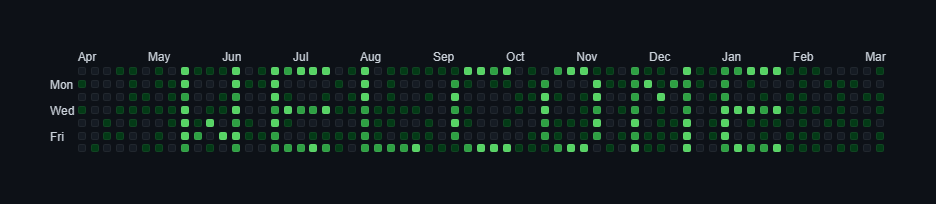
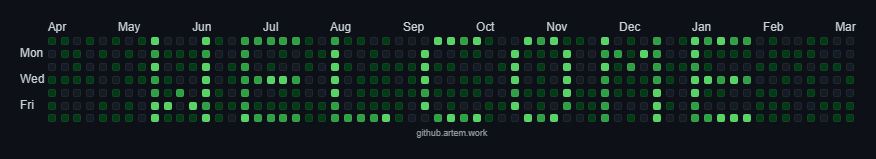
refactor the code: - fix dependencies - add more comments
update readme and welcome image

diff --git a/generator.js b/generator.js
@@ -17,75 +17,92 @@ export const generateContributionGrid = (options) => {
         maxInputLength,
         minInputLength        
     } = Object.assign({
-        letters: charMatrixMap,
-        gridContainer: document.getElementById('grid-container'),
-        contributionsGrid: document.getElementById('contribution-grid'),
-        message: document.getElementById('message-input').value.toUpperCase(),
-        speed: document.getElementById('speed-input').value,
-        paddingX: document.getElementById('padding-x-input').value,
-        paddingY: document.getElementById('padding-y-input').value,
-        creditsValue: document.getElementById('credits-input').value,
-        creditsContainer: document.getElementById('credits'),
-        numRows: 7,
-        squareGap: 2,
-        animationDuration: 0.5,
-        maxInputLength: 15,
-        minInputLength: 10
+        letters: charMatrixMap, // Map of characters to their grid representations
+        gridContainer: document.getElementById('grid-container'), // Main container for the grid
+        contributionsGrid: document.getElementById('contribution-grid'), // Grid element where contributions are displayed
+        creditsContainer: document.getElementById('credits'), // Container for displaying credits
+        message: 'HI THERE', // User input message
+        speed: 3, // Animation speed 
+        paddingX: 20, // Horizontal padding for the grid
+        paddingY: 20, // Vertical padding for the grid
+        creditsValue: 'github.artem.work', // Credits text input        
+        numRows: 7, // Number of rows in the grid, it's 7 as the days of the week
+        squareGap: 2, // Gap in squares between chars in the grid
+        animationDuration: 0.5, // Duration of the animation for each square in seconds
+        maxInputLength: 15, // Maximum length of the input message, it's limited because of the grid size (12 months)
+        minInputLength: 10 // Minimum length of the input message, it's limited because of the grid size (12 months)
     }, options);
 
-    const speedFactor = Math.max(0, Math.min(10, speed)) / 1000; // Normalize speed    
+    if (!gridContainer) {
+        throw new Error('Argument error: gridContainer is not defined.');
+    }
+    if (!contributionsGrid) {
+        throw new Error('Argument error: contributionsGrid is not defined.');
+    }
+    if (!creditsContainer)  {
+        throw new Error('Argument error: creditsContainer is not defined.');
+    }
+
+    const speedFactor = Math.max(0, Math.min(10, speed)) / 1000; // Normalize speed to a factor between 0 and 0.01
     
     creditsContainer.innerHTML = creditsValue; // Update credits text 
     creditsContainer.style.display = creditsValue ? 'block' : 'none'; // Show or hide credits based on input
 
+    // Set grid container padding based on user input
     gridContainer.style.paddingLeft = `${paddingX}px`;
     gridContainer.style.paddingRight = `${paddingX}px`;
     gridContainer.style.paddingTop = `${paddingY}px`;
     gridContainer.style.paddingBottom = `${paddingY}px`;
 
     let phrase = '';
-    for (const char of message) {
-        if (letters[char]) {
+    for (const char of message.toUpperCase()) { // Convert message to uppercase and iterate through each character
+        if (letters[char]) { // Only include characters that exist in the character map
             phrase += char;
         }
         if (phrase.length >= maxInputLength) {
             break; // Limit to max input length
         }
     }
+    // if the phrase is shorter than the minimum length,
+    // add spaces to the beginning and end of the phrase
+    // to make it look centered in the grid
     if (phrase.length < minInputLength) {
         const spacesToAdd = Math.max(0, minInputLength - phrase.length);
         const padding = ' '.repeat(Math.ceil(spacesToAdd / 2));
-        phrase = padding + phrase + padding;
+        phrase = padding + phrase + padding; // Add padding to meet minimum length
     }
 
     contributionsGrid.innerHTML = ''; // Clear previous grid
     let totalColumns = 0;
+    // calculate the total number of columns needed for the grid
     for (const char of phrase) {
-        totalColumns += letters[char][0].length + squareGap; // +squareGap for spacing      
+        totalColumns += letters[char][0].length + squareGap; // Add character width and spacing      
     }
     totalColumns = Math.max(0, totalColumns - squareGap); // Remove trailing space
 
-    contributionsGrid.style.gridTemplateRows = `repeat(${numRows}, 0.625rem)`;
-    contributionsGrid.style.gridTemplateColumns = `repeat(${totalColumns}, 0.625rem)`;
+    // Set grid styles based on calculated values
+    contributionsGrid.style.gridTemplateRows = `repeat(${numRows}, 0.625rem)`; // Set grid row template
+    contributionsGrid.style.gridTemplateColumns = `repeat(${totalColumns}, 0.625rem)`; // Set grid column template
 
     let animationDelay = 0;
+    // draw the chars line by line
     for (let row = 0; row < numRows; row++) {
         let letterCol = 0;
         let currentLetter = 0;
         for (let col = 0; col < totalColumns; col++) {
-            const letterTemplate = letters[phrase[currentLetter]];
+            const letterTemplate = letters[phrase[currentLetter]]; // Get the grid representation of the current letter
 
-            const square = document.createElement('div');
+            const square = document.createElement('div'); // Create a square element
             square.classList.add('square');
-            square.style.animationDuration = `${speedFactor == 0 ? 0 : animationDuration}s`;
-            square.style.animationDelay = `${animationDelay}s`;
+            square.style.animationDuration = `${speedFactor == 0 ? 0 : animationDuration}s`; // Set animation duration
+            square.style.animationDelay = `${animationDelay}s`; // Set animation delay
             animationDelay += speedFactor; // Increment delay for staggered effect
 
             // when the letter line is done,
             // add spacing and move to the next letter
             if (letterCol >= letterTemplate[0].length) {
-                square.classList.add(`level-${Math.floor(Math.random() * 2)}`);
-                contributionsGrid.appendChild(square);
+                square.classList.add(`level-${Math.floor(Math.random() * 2)}`); // Assign random level for spacing
+                contributionsGrid.appendChild(square); // Add square to the grid
                 if (letterCol >= letterTemplate[0].length + squareGap - 1) {
                     letterCol = 0;
                     currentLetter++;
@@ -93,34 +110,34 @@ export const generateContributionGrid = (options) => {
                     letterCol++;
                 }
             } else {
-                if (letterTemplate[row][letterCol] === 1) {
-                    square.classList.add(`level-${3 + Math.floor(Math.random() * 2)}`);
+                if (letterTemplate[row][letterCol] === 1) { // Check if the square is part of the letter in the map
+                    square.classList.add(`level-${3 + Math.floor(Math.random() * 2)}`); // Assign higher level for letter squares
                 } else {
-                    square.classList.add(`level-${Math.floor(Math.random() * 2)}`);
+                    square.classList.add(`level-${Math.floor(Math.random() * 2)}`); // Assign random level for non-letter squares
                 }
-                contributionsGrid.appendChild(square);
+                contributionsGrid.appendChild(square); // Add square to the grid
                 letterCol++;
             }
         }
 
-        currentLetter = 0;
-        letterCol = 0;
+        currentLetter = 0; // Reset current letter index for the next row
+        letterCol = 0; // Reset column index for the next row
     }
 
-    generateLabels();
+    generateLabels(); // Generate labels for the grid
 }
 
 const generateLabels = () => {
-    const dayLabels = ['Mon', 'Wed', 'Fri'];
-    const monthLabels = ['Jan', 'Feb', 'Mar', 'Apr', 'May', 'Jun', 'Jul', 'Aug', 'Sep', 'Oct', 'Nov', 'Dec'];
-    const currentMonth = new Date().getMonth();
+    const dayLabels = ['Mon', 'Wed', 'Fri']; // Labels for days
+    const monthLabels = ['Jan', 'Feb', 'Mar', 'Apr', 'May', 'Jun', 'Jul', 'Aug', 'Sep', 'Oct', 'Nov', 'Dec']; // Labels for months
+    const currentMonth = new Date().getMonth(); // Get the current month index
 
-    const dayLabelsContainer = document.getElementById('day-labels');
-    const monthLabelsContainer = document.getElementById('month-labels');
+    const dayLabelsContainer = document.getElementById('day-labels'); // Container for day labels
+    const monthLabelsContainer = document.getElementById('month-labels'); // Container for month labels
 
-    dayLabelsContainer.innerHTML = dayLabels.map(day => `<div class="day-label">${day}</div>`).join('');
+    dayLabelsContainer.innerHTML = dayLabels.map(day => `<div class="day-label">${day}</div>`).join(''); // Generate day labels
     monthLabelsContainer.innerHTML = Array.from({ length: 12 }, (_, i) => {
-        const month = monthLabels[(currentMonth + i) % 12];
+        const month = monthLabels[(currentMonth + i) % 12]; // Calculate month label based on current month
         return `<div class="month-label">${month}</div>`;
-    }).join('');
+    }).join(''); // Generate month labels
 }

diff --git a/index.js b/index.js
@@ -7,7 +7,7 @@ document.addEventListener('DOMContentLoaded', () => {
     // check that all required elements are present in the DOM
     checkRequiredElements();
 
-
+    // Set up the theme toggle button
     const themeToggle = document.getElementById('theme-toggle');        
     const themeToggleClickHandler = () => {
         const html = document.documentElement;
@@ -15,6 +15,7 @@ document.addEventListener('DOMContentLoaded', () => {
     }
     themeToggle?.addEventListener('click', themeToggleClickHandler);
         
+    // Set up the save button to save the contribution grid as an image
     const saveButton = document.getElementById('save-button');
     if (!saveButton) {        
         throw new Error('Save button (id="save-button") not found. Please ensure the save button exists in your HTML.');        
@@ -25,9 +26,13 @@ document.addEventListener('DOMContentLoaded', () => {
     saveButton.addEventListener('click', () => saveContributionGridAsImage({
         gridContainer: document.getElementById('grid-container'),
         saveButton: saveButton,
-        htmlToImage: window.htmlToImage // Assuming htmlToImage is available globally via script tag
+        // Assuming htmlToImage is available globally via script tag,
+        htmlToImage: window.htmlToImage, 
+        // Generate a file name based on the input value
+        fileName: `contribution-grid-${document.getElementById('message-input').value.toLowerCase().replace(/[^a-z0-9]/g, '')}.png` 
     }));
 
+    // Set up the form submission to generate the contribution grid
     const form = document.getElementById('form');
     if (!form) {
         throw new Error('Form (id="form") not found. Please ensure the form exists in your HTML.');
@@ -38,10 +43,12 @@ document.addEventListener('DOMContentLoaded', () => {
         generateContributionGrid(getGeneratorOptions());
     });
 
+    // generate the contribution grid on page load
     generateContributionGrid(getGeneratorOptions());
 });
 
-function getGeneratorOptions() {    
+// Function to get the generator options from the form inputs
+const getGeneratorOptions = () => {    
     return {        
         gridContainer: document.getElementById('grid-container'),
         contributionsGrid: document.getElementById('contribution-grid'),
@@ -54,7 +61,8 @@ function getGeneratorOptions() {
     };
 }
 
-function checkRequiredElements() {
+// Function to check if all required elements are present in the DOM
+const checkRequiredElements = () => {
     const requiredElements = [
         'grid-container',
         'contribution-grid',

diff --git a/contribution-grid-to-image.js b/contribution-grid-to-image.js
@@ -1,15 +1,17 @@
 // htmlToImage import is done via script tag in index.html
-
+// saves the contribution grid as an image (PNG) using htmlToImage library
 export const saveContributionGridAsImage = (options) => {
     let {        
         gridContainer,
         saveButton,
-        htmlToImage
+        htmlToImage,
+        fileName
     } = Object.assign({        
         gridContainer: document.getElementById('grid-container'),
         saveButton: document.getElementById('save-button'),
+        fileName: 'contribution-grid.png',
         htmlToImage: window.htmlToImage // Assuming htmlToImage is available globally via script tag
-    });
+    }, options);
 
     if (!htmlToImage)
         throw new Error('htmlToImage is not available. Please include the html-to-image library using <script> tag.');
@@ -23,14 +25,13 @@ export const saveContributionGridAsImage = (options) => {
             width: gridContainer.scrollWidth,
             height: gridContainer.scrollHeight,
         }).then(dataUrl => {
-            const link = document.createElement('a');            
-            const inputValue = document.getElementById('message-input').value.toLowerCase().replace(/[^a-z0-9]/g, '');
-            link.download = `contribution-grid-${inputValue}.png`;
+            const link = document.createElement('a');                        
+            link.download = fileName;
             link.href = dataUrl;
             link.click();
         }).finally(() => {
-            saveButton.innerHTML = saveButtonText;
             // Re-enable the button after saving
+            saveButton.innerHTML = saveButtonText;            
             saveButton.removeAttribute('disabled');
         });
     }, 1); // Delay to ensure the update of button attributes

diff --git a/readme.md b/readme.md
@@ -4,10 +4,9 @@ You can use it to create an image for your social profiles or your CV, etc.
 
 ![Welcome example](images/contribution-grid-welcome.png)
 
-[Try it here](https://github.artem.work)
-
-
+[Try it on github.artem.work](https://github.artem.work)
 
 I used [html-to-image](https://github.com/bubkoo/html-to-image/) script to generate the images from html page.
 
-
+## Usage
+There is no build step, just open `index.html` in your browser and you are ready to go.
